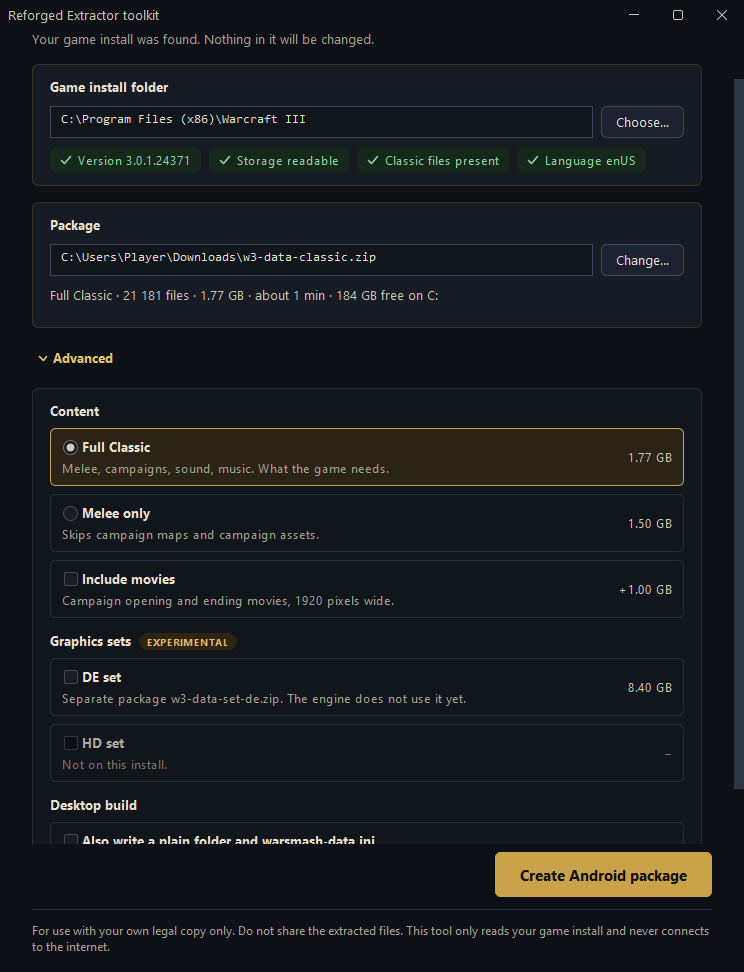
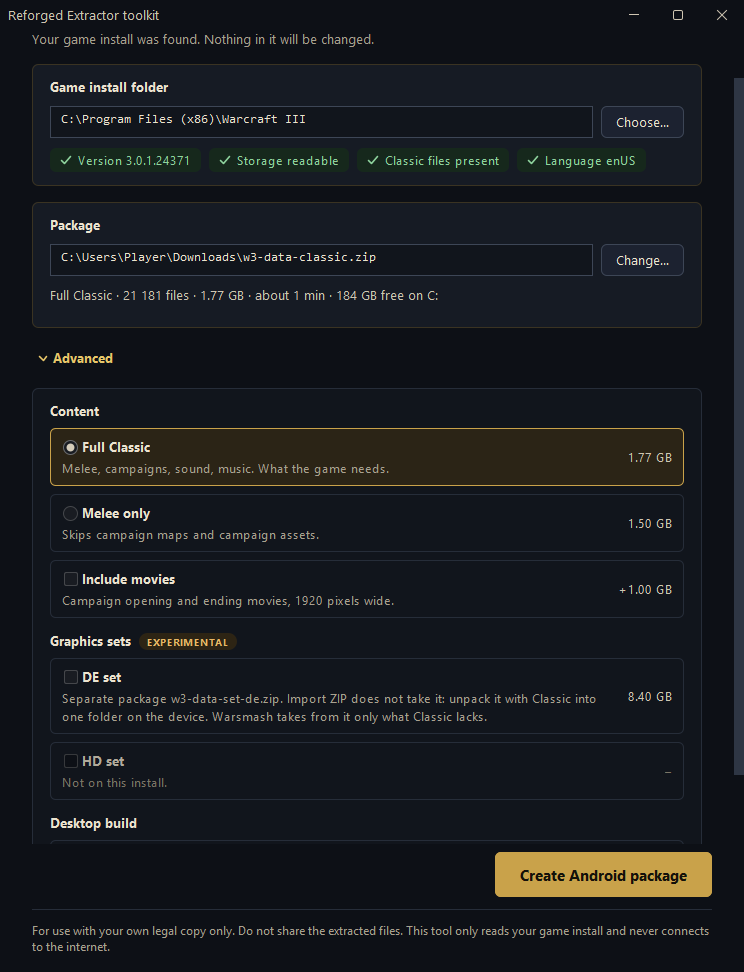
Point the Done screen and README to Import ZIP

diff --git a/src/main/java/com/nikoltu/w3prep/ui/DoneScreen.java b/src/main/java/com/nikoltu/w3prep/ui/DoneScreen.java
@@ -58,14 +58,14 @@ final class DoneScreen extends JPanel {
 		this.stepsCard.add(Ui.heading("Put it on the Android device"));
 		addStep(1, "Connect the device by USB and choose File transfer.");
 		addStep(2, "Copy the ZIP into the device's Download folder.");
-		addStep(3, "Unpack it on the device with a file manager (Extract).");
-		addStep(4, "In Warsmash, choose the unpacked folder, the one with units and ui inside.");
+		addStep(3, "In Warsmash, open Options › Game Data, press Import ZIP and pick the ZIP.");
+		addStep(4, "When the import is done, you can delete the ZIP from Download.");
 		this.cards.setOpaque(false);
 		this.cards.add(this.stepsCard);
 		body.add(this.cards);
 
-		body.add(Ui.notice("Warsmash reads a folder, not the ZIP. Unpack on the device, not on the PC: one file copies "
-				+ "much faster than thousands.", Theme.WARN_BG, Theme.WARN));
+		body.add(Ui.notice("Don't unpack the ZIP, on the PC or on the device: Import ZIP unpacks and checks it by itself, "
+				+ "and one file copies much faster than thousands.", Theme.WARN_BG, Theme.WARN));
 
 		final JPanel spacer = new JPanel();
 		spacer.setOpaque(false);
@@ -81,10 +81,10 @@ final class DoneScreen extends JPanel {
 	private void addStep(final int number, final String text) {
 		final JPanel row = new JPanel(new BorderLayout(8, 0));
 		row.setOpaque(false);
-		final JLabel index = Ui.label(number + ".", Theme.bold(13f), number == 3 ? Theme.WARN : Theme.GOLD);
+		final JLabel index = Ui.label(number + ".", Theme.bold(13f), Theme.GOLD);
 		index.setVerticalAlignment(JLabel.TOP);
 		row.add(index, BorderLayout.WEST);
-		row.add(Ui.text(text, number == 3 ? Theme.WARN : Theme.SOFT), BorderLayout.CENTER);
+		row.add(Ui.text(text, Theme.SOFT), BorderLayout.CENTER);
 		this.stepsCard.add(row);
 	}
 
@@ -99,7 +99,8 @@ final class DoneScreen extends JPanel {
 			final String others = outcome.getPackages().subList(1, outcome.getPackages().size()).stream()
 					.map(path -> path.getFileName().toString()).collect(Collectors.joining(", "));
 			this.extras.add(Ui.text("Also made, in the same folder: " + others
-					+ ". Unpack each one into the same folder as Classic.", Theme.SOFT));
+					+ ". Import ZIP takes only the Classic package: to use them, unpack Classic and each set into one "
+					+ "folder on the device and choose it with Options › Game Data › Change…", Theme.SOFT));
 		}
 		if (outcome.getDesktopIni() != null) {
 			this.extras.add(Ui.text("Desktop build: plain folder and " + outcome.getDesktopIni().getFileName()

diff --git a/src/main/java/com/nikoltu/w3prep/ui/ReadyScreen.java b/src/main/java/com/nikoltu/w3prep/ui/ReadyScreen.java
@@ -243,7 +243,8 @@ final class ReadyScreen extends JPanel {
 		row.setSize(available ? size : "–");
 		row.setDescription(available
 				? "Separate package " + set.getPackageName()
-						+ ". Unpack into the same folder; Warsmash takes from it only what Classic lacks."
+						+ ". Import ZIP does not take it: unpack it with Classic into one folder on the device. "
+						+ "Warsmash takes from it only what Classic lacks."
 				: "Not on this install.");
 	}
 

diff --git a/README.md b/README.md
@@ -33,8 +33,7 @@ flowchart LR
     B --> C["w3-data-classic.zip<br/>one file, checked"]
     B --> G["w3-data-classic/<br/>+ warsmash-data.ini<br/>(desktop, optional)"]
     C -- "USB or ADB" --> D["Android device<br/>Download folder"]
-    D -- "unpack" --> E["w3-data-classic/<br/>units, ui, …"]
-    E -- "choose folder" --> F["Warsmash"]
+    D -- "Import ZIP" --> F["Warsmash"]
 ```
 
 | | |
@@ -113,34 +112,26 @@ Press **Create Android package**. After a minute or two `w3-data-classic.zip` is
 - **ADB** (only if you already use it): press **Send to device** in the tool, or run
   `adb push w3-data-classic.zip /sdcard/Download/`
 
-### 4. Unpack it on the device
+### 4. Import it in Warsmash
 
 > [!IMPORTANT]
-> **Warsmash reads game files from a folder, not from the ZIP. The ZIP must be unpacked on the device.**
-> Copy the ZIP itself; don't unpack it on the PC and copy the folder.
+> **Don't unpack the ZIP, neither on the PC nor on the device.** Warsmash imports the ZIP itself: it unpacks it into
+> its own app folder and checks every file. One file also copies much faster than thousands.
 
-1. Open a file manager on the device, for example Files by Google.
-2. Go to **Download**, tap `w3-data-classic.zip`, choose **Extract**.
-3. You get a folder `w3-data-classic` with `units` and `ui` inside. This needs about 2.1 GB of extra free space
-   (3.1 GB with movies).
+1. Open Warsmash. On the **Game data** screen it shows at first start (later: Options › Game Data) press
+   **Import ZIP**.
+2. Pick `w3-data-classic.zip` in **Download**.
+3. Wait until the import is done. It needs about 2.1 GB of extra free space (3.1 GB with movies). Warsmash then
+   shows the game version from the package.
 
-> [!WARNING]
-> Don't make the folder with `adb shell mkdir` or `adb push` a folder into Warsmash's own app folder
-> (`Android/data/…`): files put there by adb or by another app belong to that user and are usually closed to
-> Warsmash, so the folder looks empty or files are reported missing. Unpack with a file manager on the device into
-> a folder such as `Download`, as above.
+When the import is done, you can delete the ZIP.
 
 > [!NOTE]
 > The package contains a `.nomedia` file, so game sounds and pictures don't show up in your music or gallery apps.
 
-### 5. Point Warsmash at the folder
-
-Open Warsmash. On the **Game data** screen (later: Options › Game Data › Change…) choose `w3-data-classic`, or
-the folder above it. When Warsmash asks for **All files access**, allow it: it needs it to read a folder outside its
-own app folder. Warsmash shows the game version from the package. When it starts, you can delete the ZIP.
-
 > [!TIP]
-> After a game update, run the tool again, copy and unpack the new ZIP, and point Warsmash at the new folder.
+> After a game update, run the tool again, copy the new ZIP to the device and import it the same way. It replaces
+> the old data; until the new import is done, the old data stays as it was.
 
 ## Desktop Warsmash
 
@@ -165,7 +156,7 @@ folder. The tool replaces only a folder it made itself.
 | --- | --- |
 | **Melee only** | Leaves out the campaign maps, campaign assets, their spoken lines and mission pictures. |
 | **Include movies** | Adds the campaign opening and ending movies, 1920 pixels wide, with sound and captions. Warsmash plays them on Android. |
-| **Graphics sets** *(experimental)* | DE and HD sets, each as its own ZIP (`w3-data-set-de.zip`, `w3-data-set-hd.zip`). Unpack into the same folder as Classic; the files go into their own subfolder and don't overwrite Classic. Warsmash takes from them only models and textures that Classic lacks. |
+| **Graphics sets** *(experimental)* | DE and HD sets, each as its own ZIP (`w3-data-set-de.zip`, `w3-data-set-hd.zip`). Import ZIP takes only the Classic package: to use a set, unpack Classic and the set into one folder on the device with a file manager and choose that folder with Options › Game Data › Change…; the set's files go into their own subfolder and don't overwrite Classic. Warsmash takes from them only models and textures that Classic lacks. |
 | **Desktop build** | See above. |
 
 Next to each ZIP the tool writes a `.manifest.json` with every file's size and checksums. It stays on the PC.
@@ -182,9 +173,12 @@ Next to each ZIP the tool writes a `.manifest.json` with every file's size and c
 | Files could not be read | Let the game launcher finish updating, or run its Scan and Repair, then try again. |
 | The game was updated while packing | Let the update finish, then press **Try again**. |
 | Not enough space | Choose another place for the package, or free some space. |
-| **Extract** fails on the device | Check free space; copy the ZIP again. |
-| Warsmash says the folder is not valid | Pick the folder that directly contains `units` and `ui`. |
-| Warsmash shows no exact game version | The folder was made before version 0.2.0 of this tool; make it again. |
+| Warsmash: not a ZIP file, incomplete, or does not match its checksum | The copy is damaged. Copy the ZIP to the device again and import it again. |
+| Warsmash: not enough free space | Free the space it names on the device, then import again. |
+| Warsmash: not a Reforged Extractor toolkit package | A graphics set ZIP or another ZIP was picked. Import `w3-data-classic.zip`. |
+| Warsmash: the ZIP cannot be read where it lies | Copy it to the device storage, such as **Download**, and pick it there. |
+| Warsmash says a chosen folder is not valid (Change…) | Pick the folder that directly contains `units` and `ui`. |
+| Warsmash shows no exact game version | The package was made before version 0.2.0 of this tool; make it again. |
 
 **Log folder** in the tool opens the logs. Your user folder shows as `~` in them, so a log can be shared for help.
 Settings and logs are kept in `Reforged-Extractor` in your user's application data folder.
